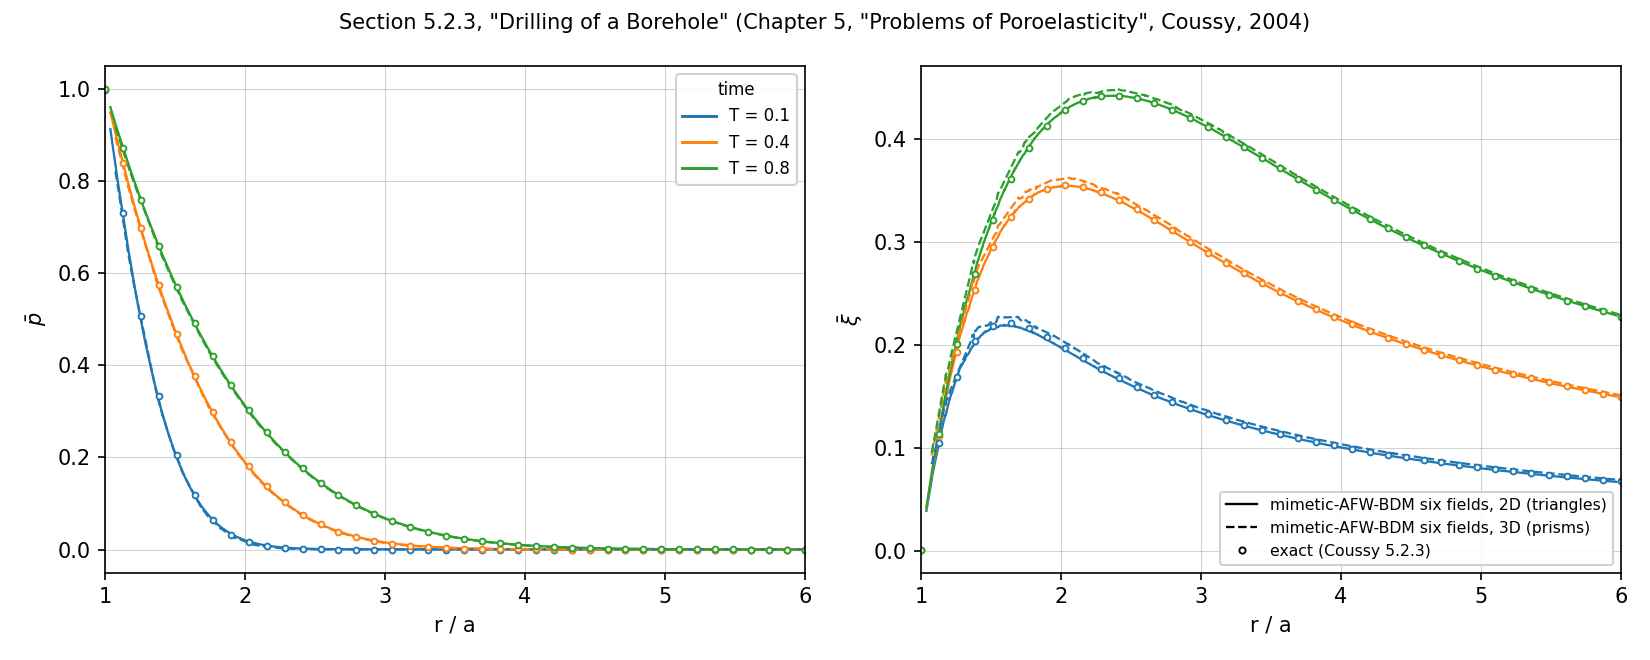
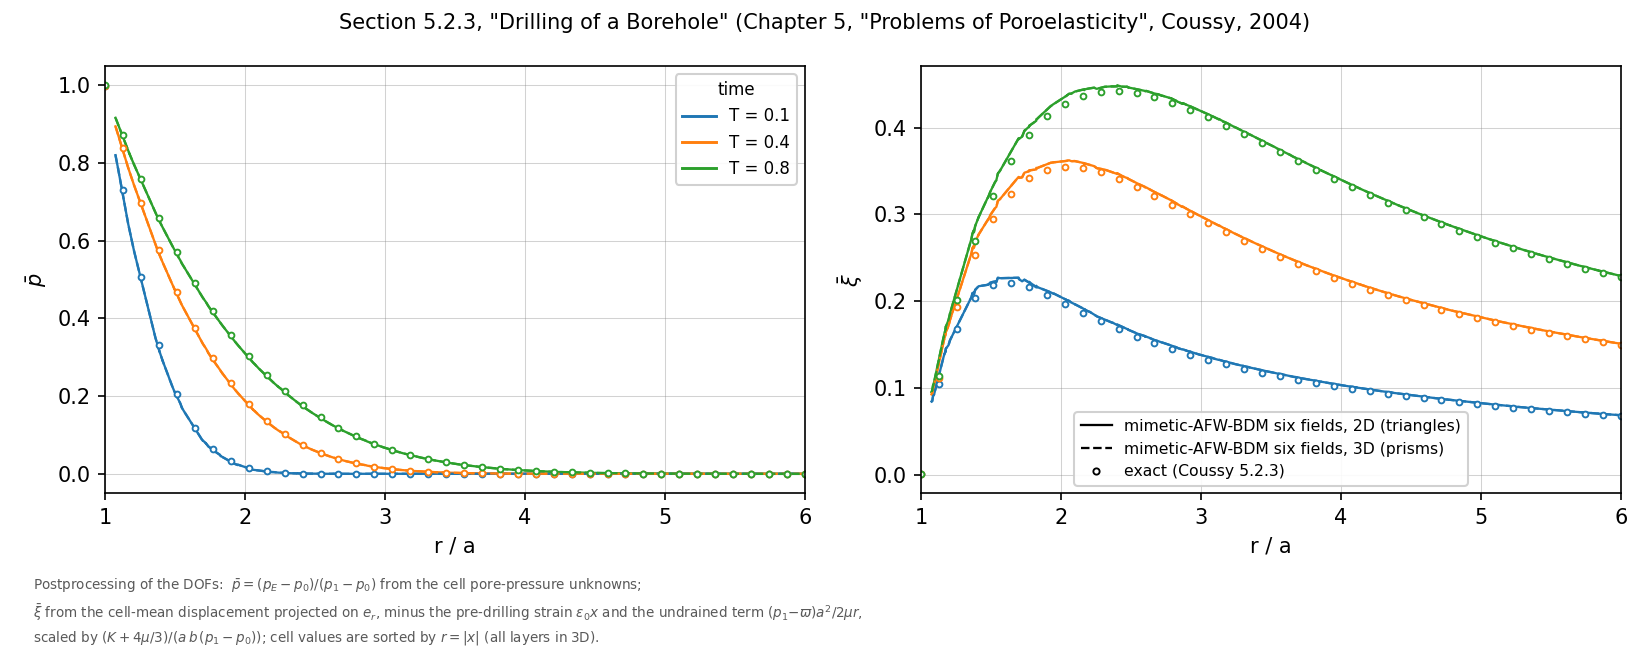
wip: borehole improved comparison

diff --git a/benchmarks/poroelasticity/borehole.py b/benchmarks/poroelasticity/borehole.py
@@ -418,6 +418,8 @@ def compare(runs, path):
 
             order = np.argsort(r[sel])
             kw = dict(ls=styles[dim], lw=1.1, color=colors[Tr])
+            if dim == 2:  # sparse markers so the 3D overlap is visible on top
+                kw.update(marker="s", ms=2.2, mfc=colors[Tr], markevery=7)
             ax1.plot(r[sel][order], pb_num[sel][order], **kw)
             ax2.plot(r[sel][order], xib_num[sel][order], **kw)
 
@@ -434,7 +436,7 @@ def compare(runs, path):
     ax1.legend(handles=handles, fancybox=True, framealpha=0.9,
                edgecolor="0.8", fontsize=8, title="time", title_fontsize=8)
     style = [
-        Line2D([], [], color="k", lw=1.1,
+        Line2D([], [], color="k", lw=1.1, marker="s", ms=2.2,
                label="mimetic-AFW-BDM six fields, 2D (triangles)"),
         Line2D([], [], color="k", lw=1.1, ls="--",
                label="mimetic-AFW-BDM six fields, 3D (prisms)"),
@@ -453,17 +455,19 @@ def compare(runs, path):
         fontsize=10,
     )
     fig.text(
-        0.01, 0.005,
-        r"Postprocessing of the DOFs: $\bar{p} = (p_E - p_0)/(p_1 - p_0)$"
-        r" from the cell pore-pressure unknowns; $\bar{\xi}$ from the"
-        r" cell-mean displacement projected on $e_r$, minus the pre-drilling"
-        r" strain $\epsilon_0 x$ and the undrained term"
-        r" $(p_1{-}\varpi)a^2/2\mu r$, scaled by"
-        r" $(K + \tfrac{4}{3}\mu)/(a\,b\,(p_1 - p_0))$;"
+        0.02, 0.02,
+        "Postprocessing of the DOFs:  "
+        r"$\bar{p} = (p_E - p_0)/(p_1 - p_0)$ from the cell pore-pressure"
+        " unknowns;\n"
+        r"$\bar{\xi}$ from the cell-mean displacement projected on $e_r$,"
+        r" minus the pre-drilling strain $\epsilon_0 x$ and the undrained"
+        r" term $(p_1{-}\varpi)a^2/2\mu r$,"
+        "\n"
+        r"scaled by $(K + 4\mu/3)/(a\,b\,(p_1 - p_0))$;"
         " cell values are sorted by $r = |x|$ (all layers in 3D).",
-        fontsize=6.5, color="0.35",
+        fontsize=6.5, color="0.35", va="bottom", linespacing=1.5,
     )
-    fig.tight_layout(rect=(0, 0.035, 1, 1))
+    fig.tight_layout(rect=(0, 0.12, 1, 1))
     fig.savefig(path, dpi=150)
     _save_cache()
     print(f"wrote {path}  (exact-solution cache: {len(_cache)} entries)")
